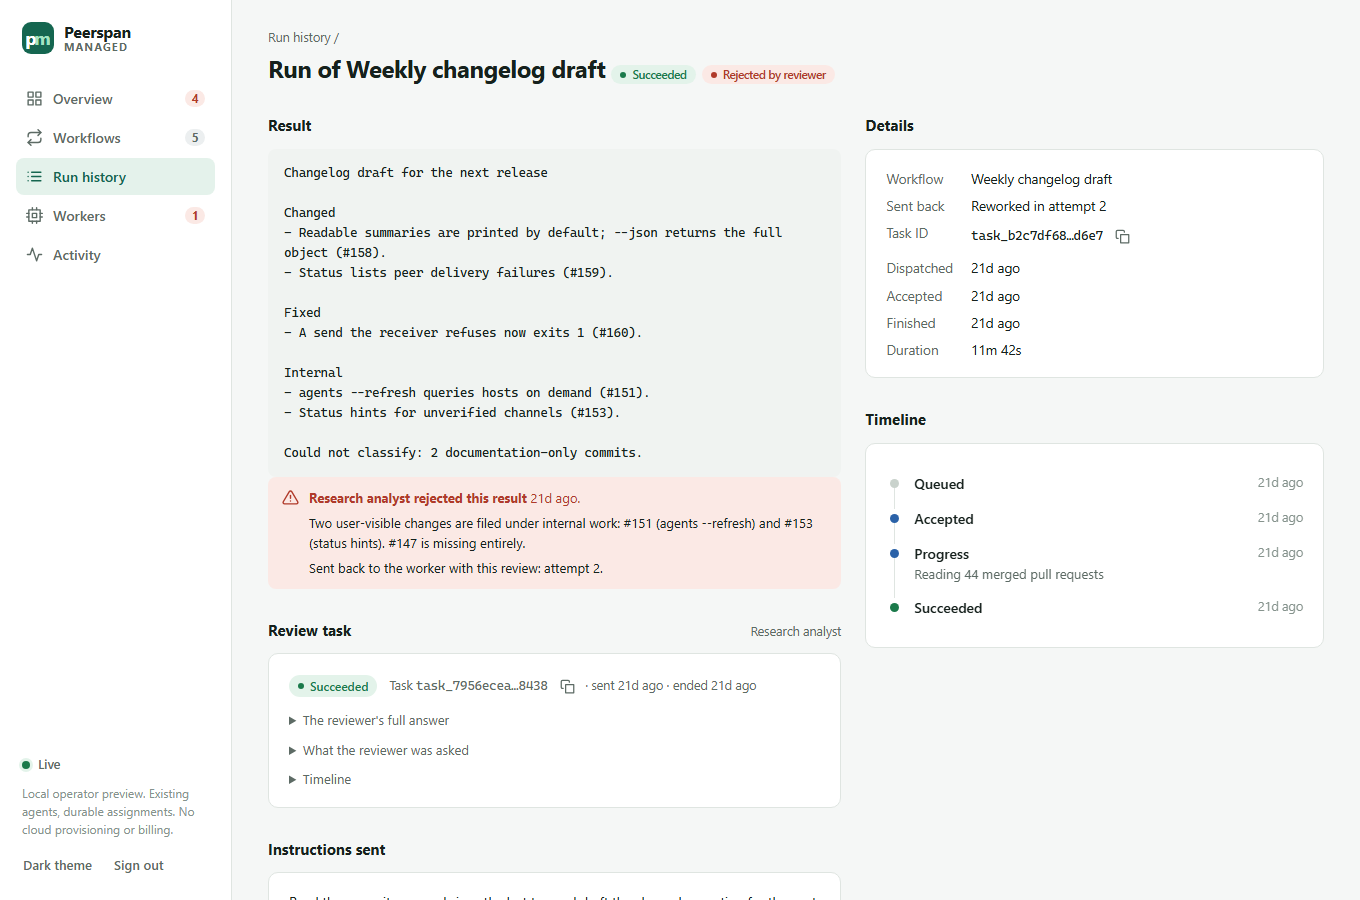
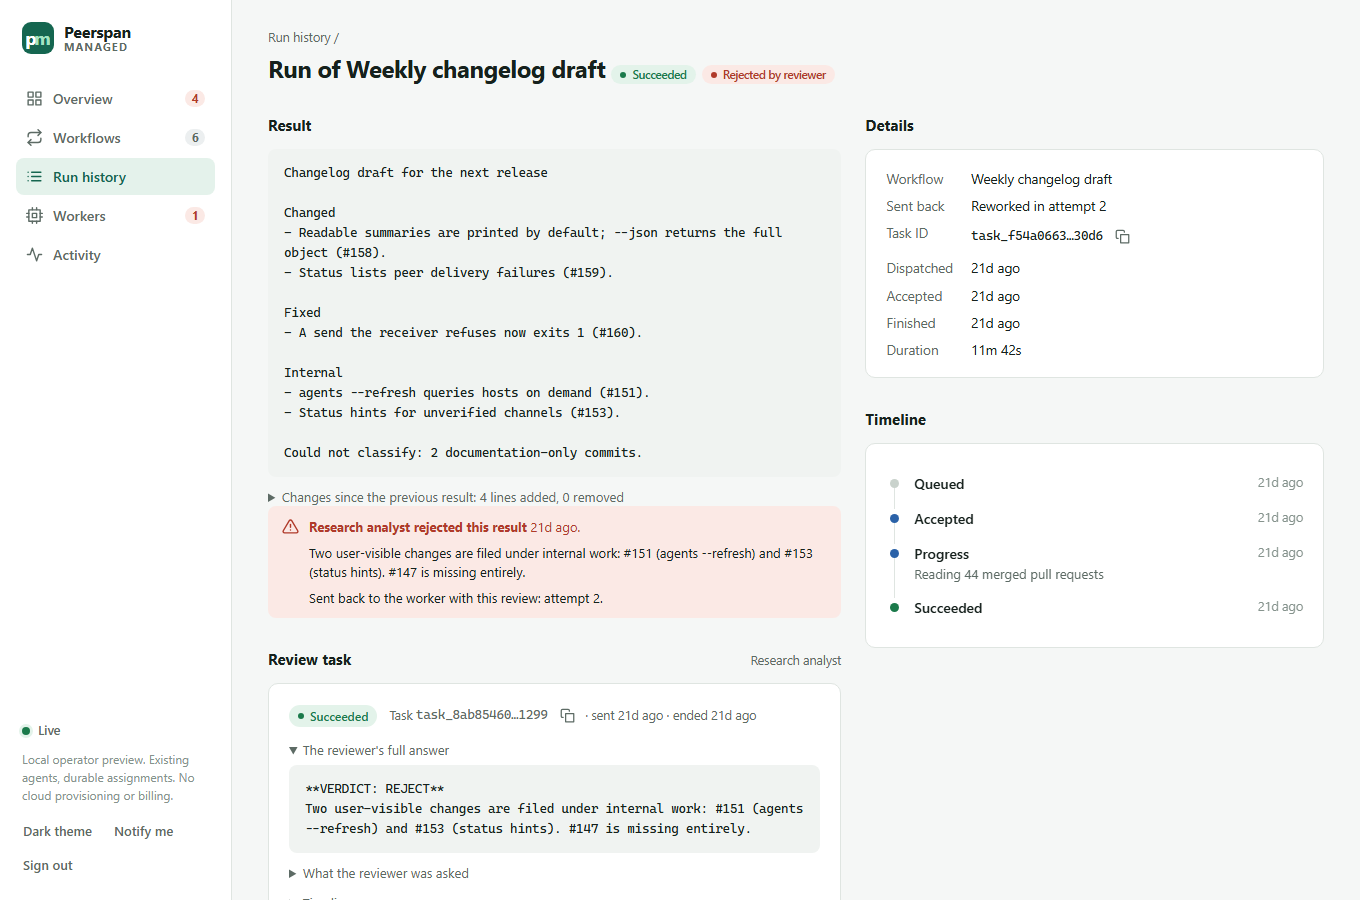
Refresh the console screenshots for result checks and handoffs
The overview and the reviewed run are retaken from a demonstration with result
checks and a handoff chain, and a new screenshot shows a result rejected by its
checks with the rework it was sent back for.

diff --git a/managed/README.md b/managed/README.md
@@ -221,7 +221,11 @@ browser shows it; nothing is sent anywhere.
 A succeeded run is the worker's own report. Unless its workflow has checks or
 asks for review, nothing in this preview checks the output; it never downloads
 artifacts or approves anything on your behalf. A run with checks lists each one
-on its page, passed or failed with the reason. Results waiting for your review are listed on
+on its page, passed or failed with the reason.
+
+![A result rejected by its checks: each failed check with its reason, and the rework it was sent back for](assets/console-checks.png)
+
+Scripted demonstration data, not real agent work. Results waiting for your review are listed on
 the overview, oldest first, and each run page has Accept and Reject with an
 optional note. A reviewed run's page also shows the reviewer's verdict and
 reasons, its full answer, what it was asked and its task's timeline, and links a
